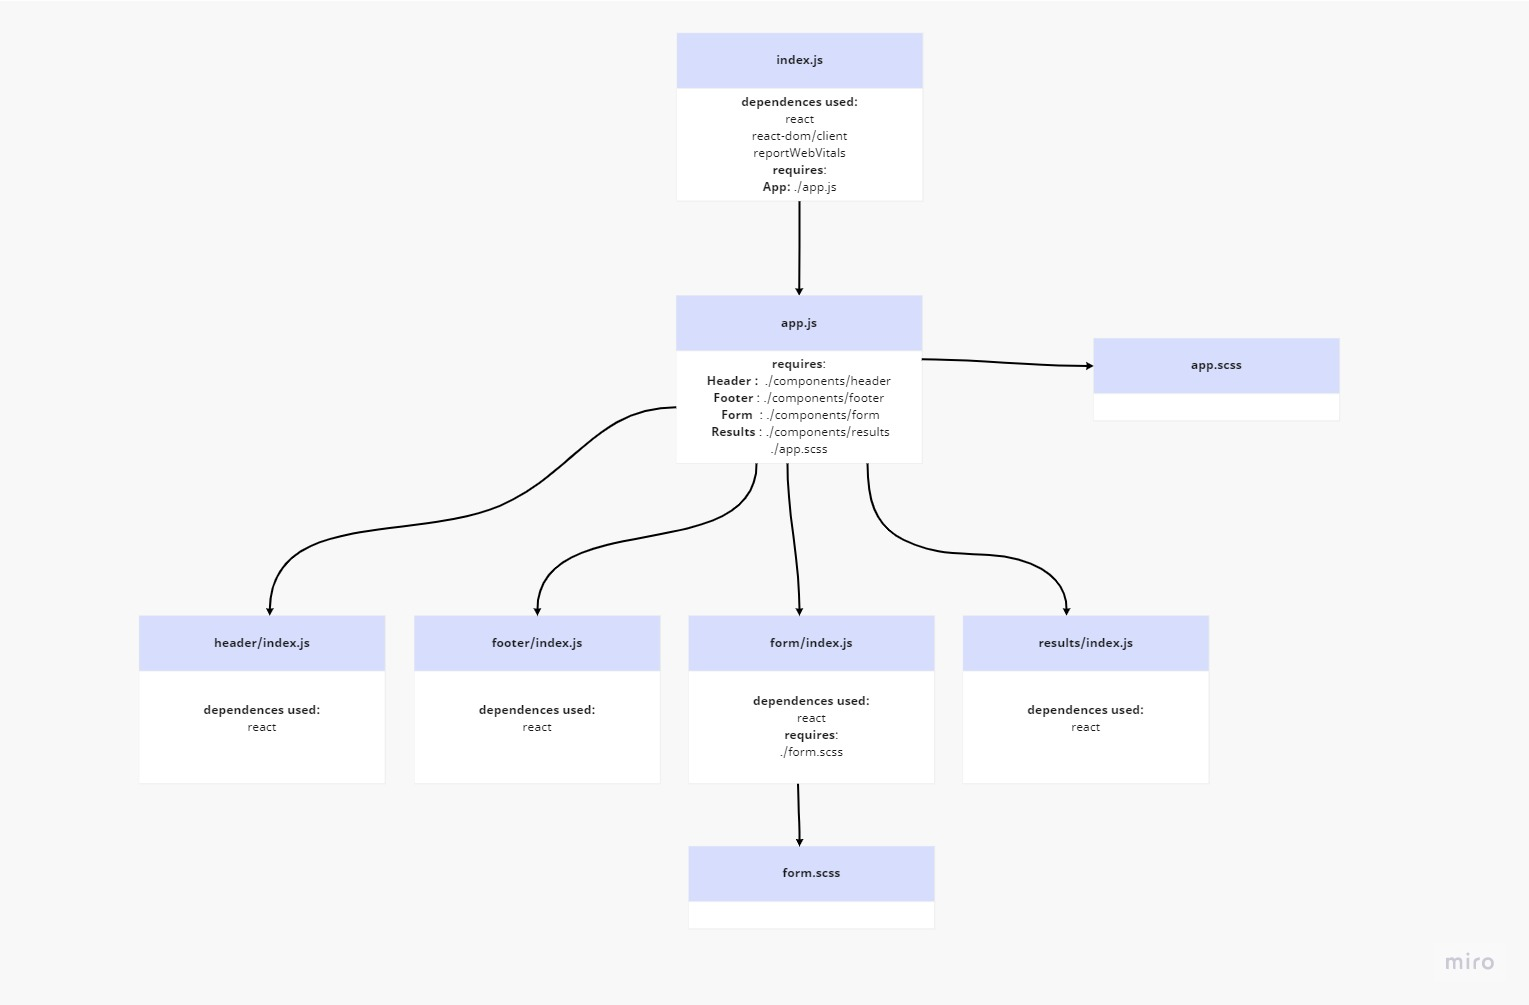
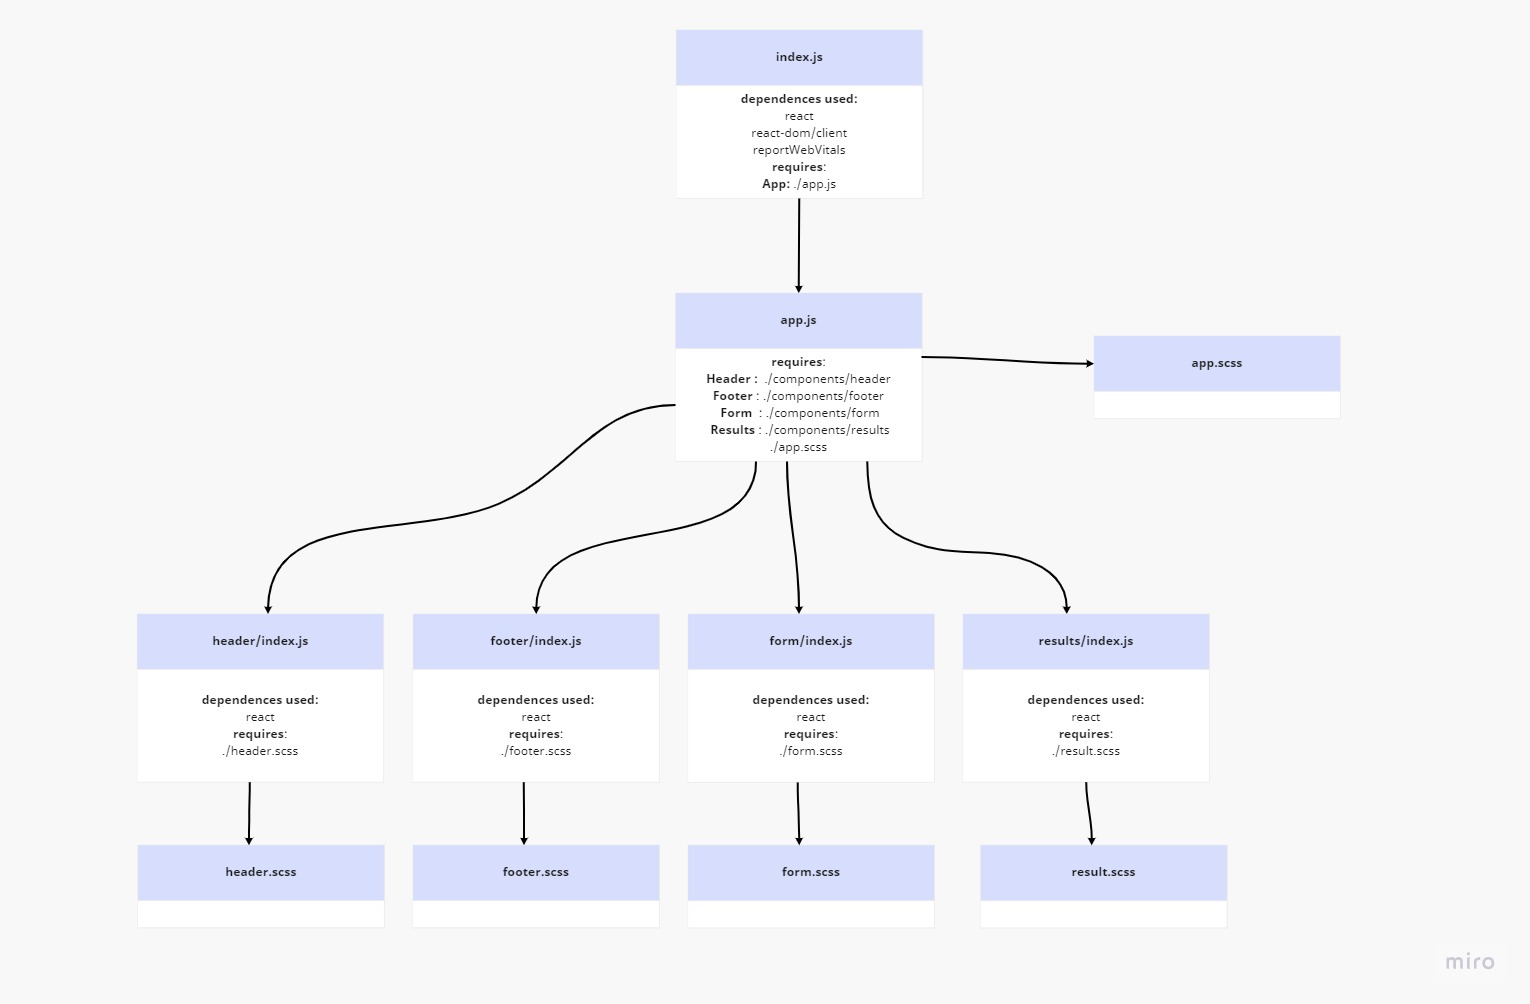
add some desigin

diff --git a/src/components/form/form.scss b/src/components/form/form.scss
@@ -3,91 +3,58 @@ $radius: 40%;
 
 form {
   display: flex;
-  // margin: auto;
   width: 400px;
-  // position: absolute;
-  // top: 17%;
-  /* float: right; */
   left: 32%;
 
-  label:nth-child(1) {
+  label:nth-child(2) {
     display: flex;
-    margin: 1rem 0;
+    padding-top: 1.5rem;
 
     input {
       box-sizing: border-box;
       display: block;
       width: 40rem;
-      height: 2rem;
-      // border: 3px solid currentColor;
+      height: 44px;
+      border: 1px solid currentColor;
       border-radius: 8px;
-      border: none;
-      padding: calc(var(--size-bezel) * 1.5) var(--size-bezel);
-      // color: currentColor;
-      // background-color: red;
-      // border-radius: var(--size-radius);
-      margin-left: 30px;
-      
-    }
-    
-          ::-webkit-input-placeholder {
-          padding-left: 5px;
-          }
-
-
-    &.methods {
-      // padding-left: 4rem;
-      // span {
-      //   // cursor: pointer;
-      //   // margin-right: 1rem;
-      //   // padding: .25rem .5rem;
-      //   // background: #5499C7;
-      //   // // border-block-color: black;
-      //   // border-style: solid;
-      //   // border-radius: .5rem;
-      //   // color: #fff;
-
-      //   // &:hover,
-      //   // &.active {
-      //   //   background: #fff;
-      //   //   color: black;
-      //   // }
-      // }
+      margin-right: 30px;
     }
 
-    select {
-      border: 3px solid currentColor;
-      margin-left: 4rem;
-      font-size: 20px;
-      font-weight: 500px;
-      text-align: center;
-      ;
+    ::-webkit-input-placeholder {
+      padding-left: 5px;
+      font-size: 1rem;
+      font-weight: 10px;
     }
+  }
 
+  label.methods {
+    padding: 12px 30px;
+  }
 
-
+  select {
+    margin-top: .5rem;
+    text-align: center;
+    font-size: 1rem;
+    height: 3rem;
+    width: 6rem;
+    border-radius: 18px;
+    border: 1px solid currentColor;
   }
 
   button {
-    // font-size: 1.5rem;
-    // background-color: #58D68D;
-    margin-left: 4rem;
+    margin: 18px 0;
+    border-radius: 17px;
     appearance: none;
     background-color: #3498DB;
-    // border-radius: 40em;
     border-style: none;
-    // box-shadow: #ADCFFF 0 -12px 6px inset;
     box-sizing: border-box;
     color: #fff;
     cursor: pointer;
     display: inline-block;
     font-family: -apple-system, sans-serif;
-    font-size: 16px;
-    font-weight: 700;
+    font-weight: 500;
     letter-spacing: -.24px;
-    // margin: 0;
     outline: none;
-    padding: 1rem 1.3rem;
     quotes: auto;
     text-align: center;
     text-decoration: none;
@@ -98,9 +65,8 @@ form {
   }
 
   button:hover {
-    background-color: #82E0AA;
+    background-color: white;
     color: black;
-    // box-shadow: #FF6314 0 -6px 8px inset;
     transform: scale(1.125);
     border-color: black;
     border-style: solid;
@@ -116,5 +82,20 @@ form {
       font-size: 1.5rem;
       padding: .75rem 2rem;
     }
+  }
+}
+
+#text-body {
+  display: contents;
+
+  span {
+    margin: 7px 51px;
+    font-size: 19px;
+  }
+
+  textarea {
+    margin: 0px 45px;
+    height: 15rem;
+    width: 47rem;
   }
 }

diff --git a/src/components/form/index.js b/src/components/form/index.js
@@ -4,44 +4,41 @@ import './form.scss';
 
 function Form(props) {
 
-  const [body, setBody] = useState(false);
+    const [body,
+        setBody] = useState(false);
 
-    const handleSubmit = async (e) => {
+    const handleSubmit = async(e) => {
         e.preventDefault();
         const formData = {
-            method: e.target[1].value,
-            url: e.target[0].value
+            method: e.target[0].value,
+            url: e.target[1].value
         };
-      // console.log(e.target[2].value); 
-      // console.log(e);
-      props.handleApiCall(formData);
-      let url = 'https://reqres.in/api/posts';
-      let response = await fetch(url,{
+        // console.log(e.target[2].value); console.log('EEEEEEEE',e);
+        props.handleApiCall(formData);
+        let url = 'https://reqres.in/api/posts';
+        let response = await fetch(url, {
             method: formData.method,
-            headers:  {
-                    "access-control-allow-origin": "*",
-                    "Content-type": "application/json; charset=UTF-8"
-                }
-      })
-      let data = await response.json();
-      props.setResult(data);
-      console.log(data);
+            headers: {
+                "access-control-allow-origin": "*",
+                "Content-type": "application/json; charset=UTF-8"
+            }
+        })
+        let data = await response.json();
+        props.setResult(data);
+        console.log(data);
         // e.target[0].value = null;
     }
-  
+
     const textArea = (e) => {
         e.target.value == 'POST' || e.target.value == 'PUT'
             ? setBody(true)
             : setBody(false);
         // console.log(body);
     };
-  
+
     return (
         <>
             <form onSubmit={handleSubmit}>
-                <label >
-                    <input name='url' type='text' required placeholder='URL'/>
-                </label>
                 <label className="methods">
                     <select onChange={textArea} id="methods">
                         <option value="GET">GET</option>
@@ -50,15 +47,19 @@ function Form(props) {
                         <option value="DELETE">DELETE</option>
                     </select>
                 </label>
-                {body
-                    ? <label >
-                            <span>
-                                Body</span>
-                            <textarea></textarea>
-                        </label>
-                    : null}
+                <label >
+                    <input name='url' type='text' required placeholder='URL'/>
+                </label>
                 <button type="submit">GO!</button>
             </form>
+            {body
+                ? <div id='text-body'>
+                        <span>
+                            Body</span>
+                        <textarea></textarea>
+                    </div>
+
+                : null}
         </>
     );
 }

diff --git a/src/app.scss b/src/app.scss
@@ -22,12 +22,12 @@ body {
     display: flex;
     margin-top: 24px;
     padding-left: 14px;
-
+    font-size: 1rem;
     #method {
       display: flex;
-      background-color: aqua;
       width: 100%;
       flex: 40%;
+      margin: 9px 19px;
 
       div:nth-child(1) {
         background-color: blue;
@@ -39,10 +39,13 @@ body {
         text-align: center;
         padding-top: 6px;
       }
-      div:nth-child(1):hover{
-        background-color: white;
-        color: black;
+
+      div:nth-child(2) {
+        padding: 2px 6px;
       }
+    }
+    section{
+      flex:130%;
     }
   }
 

diff --git a/src/components/footer/footer.scss b/src/components/footer/footer.scss
@@ -1,11 +1,10 @@
-
- footer {
-    background:#1A5276;
-    border-top: 1px solid #eee;
-    padding: 1rem 3rem;
-    margin: 0;
-    position: fixed;
-    left: 0;
-    bottom: 0;
-    width: 100%;
-  }
+footer {
+  background: #1A5276;
+  border-top: 1px solid #eee;
+  padding: 1rem 3rem;
+  margin: 0;
+  position: fixed;
+  left: 0;
+  bottom: 0;
+  width: 100%;
+}
